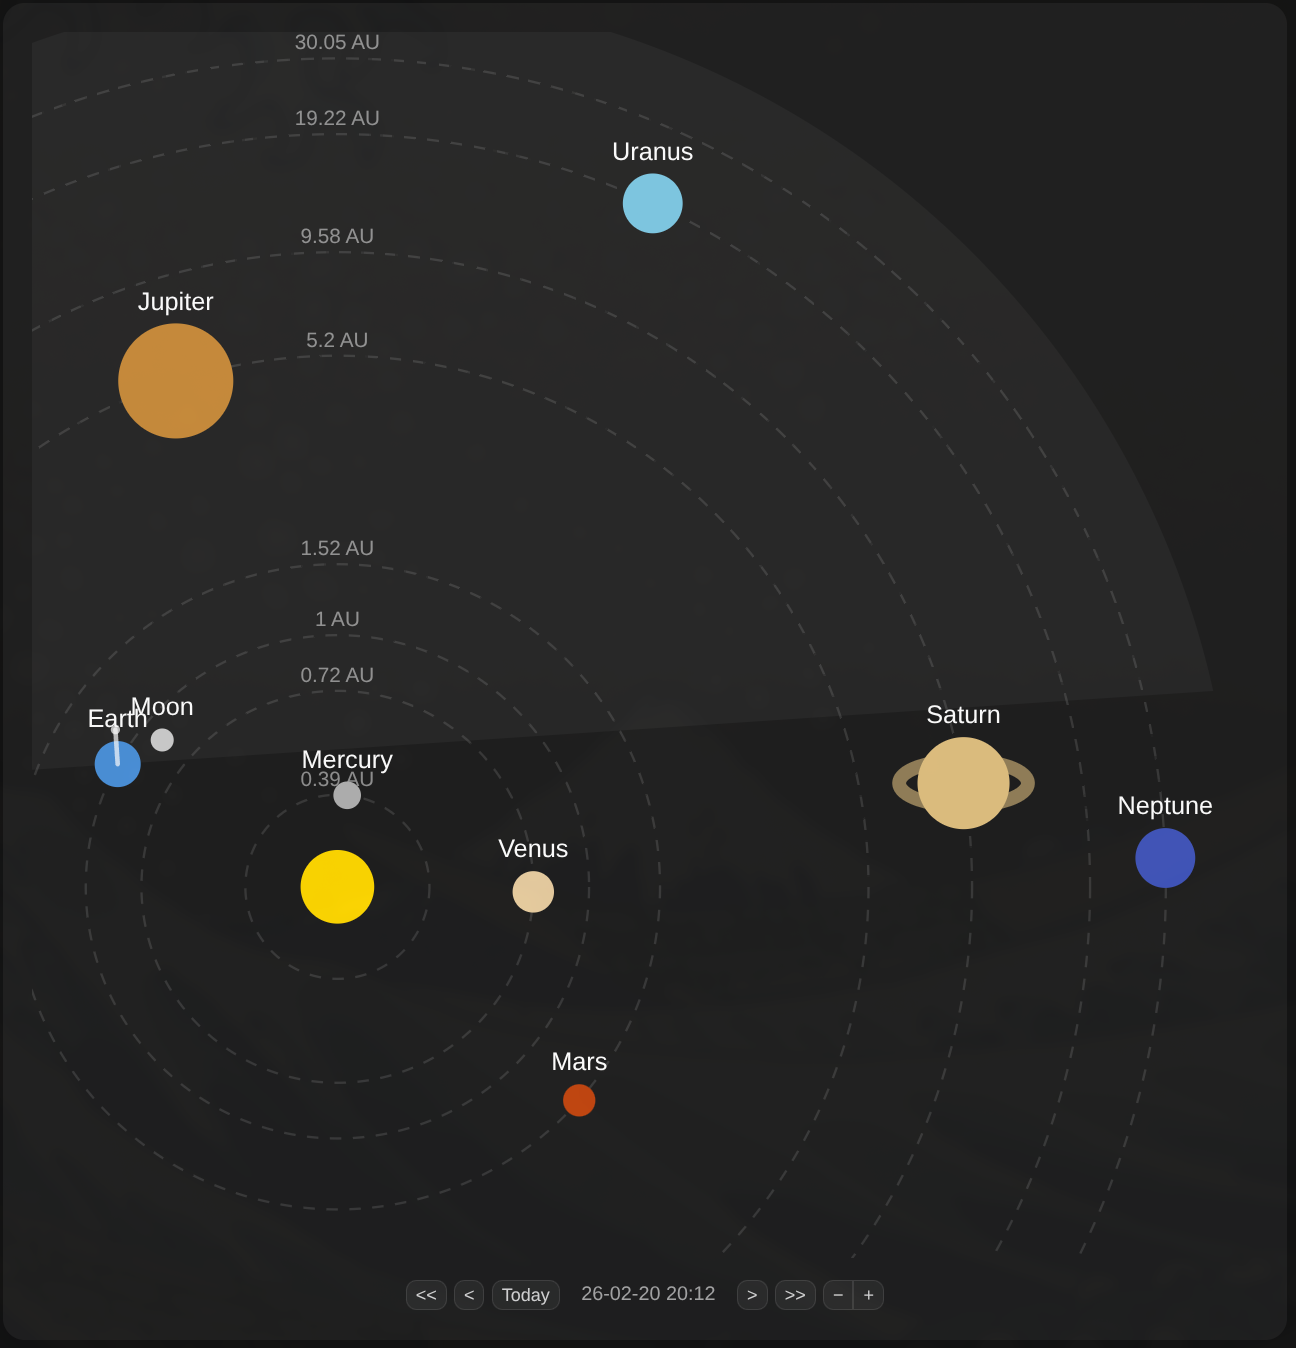
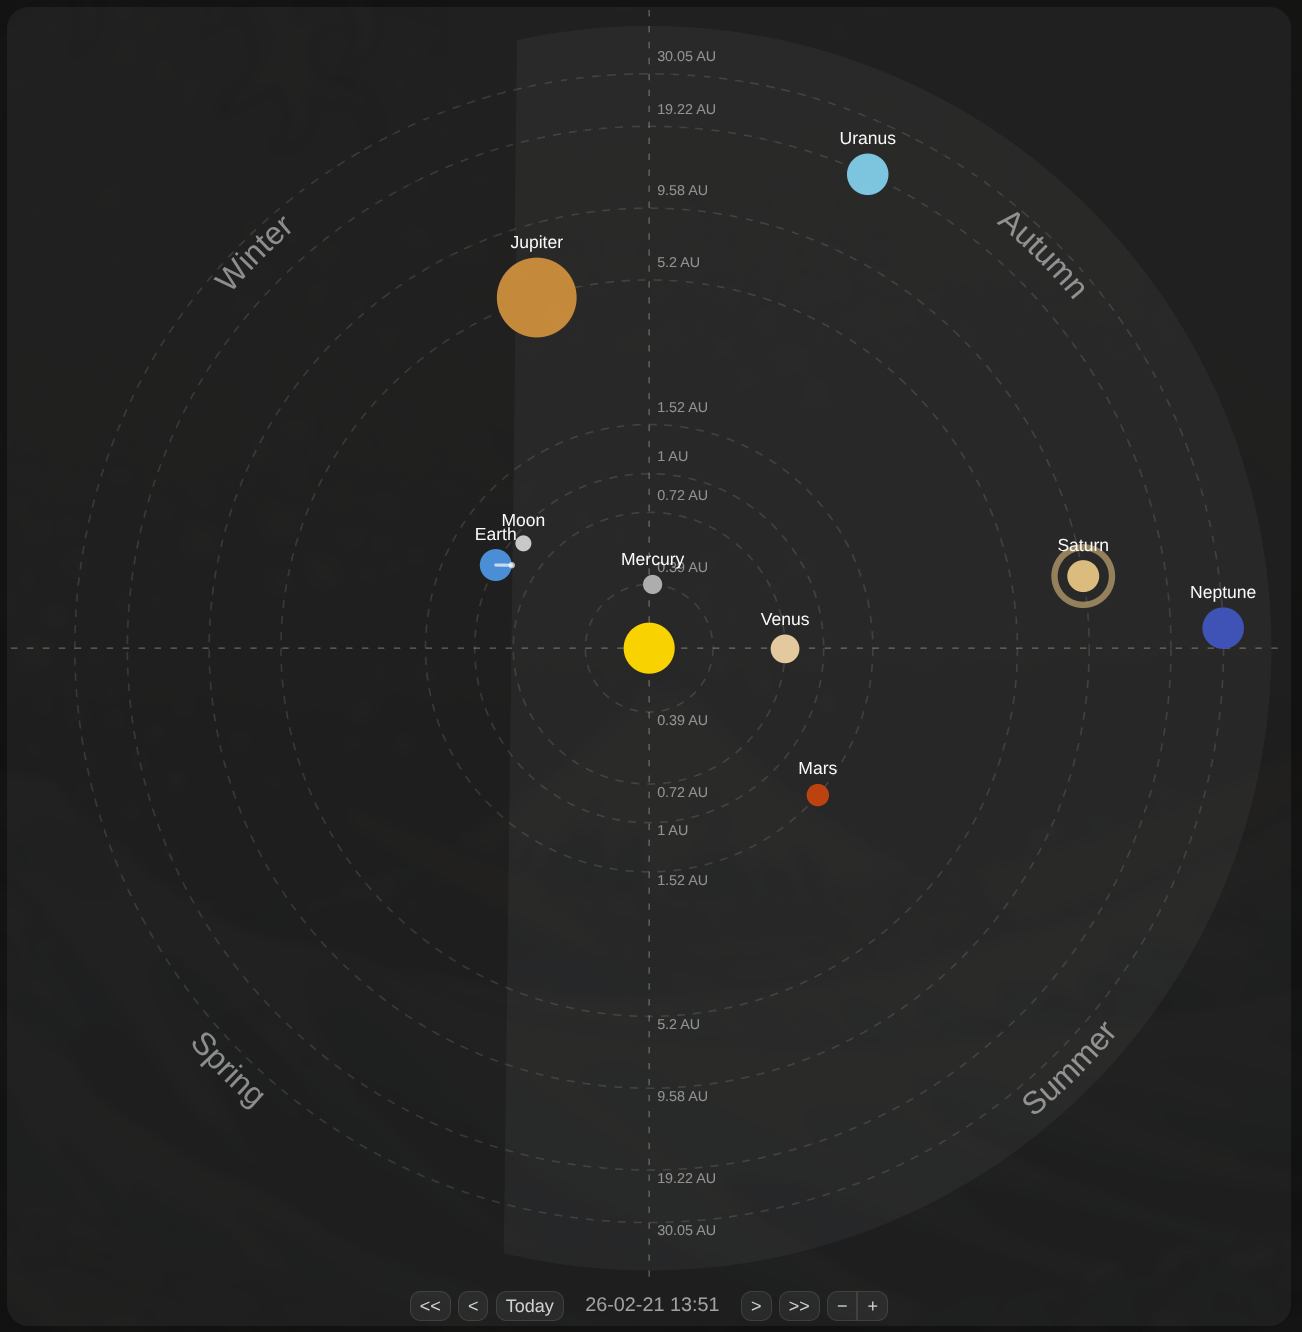
visual fixes

diff --git a/dist/ha-solar-view-card.js b/dist/ha-solar-view-card.js
@@ -160,18 +160,20 @@ function renderOrbit(svg, radius, auLabel) {
   );
 
   // AU labels on the vertical axis — mirrored above and below center
+  // Offset right of the season dividing line to avoid overlap
   const offset = 8;
+  const horizontalOffset = 5;
   const labelAttrs = {
     fill: LABEL_COLOR,
     "font-size": "9",
     "font-family": "sans-serif",
-    "text-anchor": "middle",
+    "text-anchor": "start",
   };
 
   // Top label
   svg.appendChild(
     createSvgElement("text", {
-      x: CENTER,
+      x: CENTER + horizontalOffset,
       y: CENTER - radius - offset,
       ...labelAttrs,
     })
@@ -180,7 +182,7 @@ function renderOrbit(svg, radius, auLabel) {
   // Bottom label
   svg.appendChild(
     createSvgElement("text", {
-      x: CENTER,
+      x: CENTER + horizontalOffset,
       y: CENTER + radius + offset,
       ...labelAttrs,
     })
@@ -380,20 +382,24 @@ function renderSeasonOverlay(svg, hemisphere) {
     const startRad = (season.startAngle * Math.PI) / 180;
     const endRad = (season.endAngle * Math.PI) / 180;
 
-    const x1 = CENTER + labelRadius * Math.cos(startRad);
-    const y1 = CENTER - labelRadius * Math.sin(startRad);
-    const x2 = CENTER + labelRadius * Math.cos(endRad);
-    const y2 = CENTER - labelRadius * Math.sin(endRad);
-
     // Top-half arcs (0–90° and 90–180°) render text upside-down because the
     // default arc sweeps right-to-left in SVG space. Reverse them so textPath
     // flows left-to-right for readable labels.
     const isTopHalf = season.startAngle >= 0 && season.endAngle <= 180 && season.startAngle < 180;
+    // Use a smaller radius for top-half labels so they appear visually
+    // at the same distance from Neptune's orbit as bottom-half labels
+    const arcRadius = isTopHalf ? labelRadius - 36 : labelRadius;
+
+    const x1 = CENTER + arcRadius * Math.cos(startRad);
+    const y1 = CENTER - arcRadius * Math.sin(startRad);
+    const x2 = CENTER + arcRadius * Math.cos(endRad);
+    const y2 = CENTER - arcRadius * Math.sin(endRad);
+
     const arcPath = createSvgElement("path", {
       id: pathId,
       d: isTopHalf
-        ? `M ${x2} ${y2} A ${labelRadius} ${labelRadius} 0 0 1 ${x1} ${y1}`
-        : `M ${x1} ${y1} A ${labelRadius} ${labelRadius} 0 0 0 ${x2} ${y2}`,
+        ? `M ${x2} ${y2} A ${arcRadius} ${arcRadius} 0 0 1 ${x1} ${y1}`
+        : `M ${x1} ${y1} A ${arcRadius} ${arcRadius} 0 0 0 ${x2} ${y2}`,
       fill: "none",
     });
     defs.appendChild(arcPath);
@@ -465,9 +471,20 @@ function renderSolarSystem(date, hemisphere = "north") {
       // Shrink Saturn's body to make room for top-down circular ring
       const saturnRenderSize = Math.round(planet.size / 2);
       const saturnOverride = { ...planet, size: saturnRenderSize };
-      renderBody(svg, x, y, saturnOverride);
+      renderBody(svg, x, y, saturnOverride, false);
       expandBounds(bounds, x, y, saturnOverride.size + 17);
       renderSaturnRings(svg, x, y, planet);
+      // Draw label after rings so it paints on top
+      svg.appendChild(
+        createSvgElement("text", {
+          x: x,
+          y: y - saturnRenderSize - 6,
+          fill: "#ffffff",
+          "font-size": "11",
+          "font-family": "sans-serif",
+          "text-anchor": "middle",
+        })
+      ).textContent = planet.name;
       // Total footprint: ring outer edge = ringRadius + strokeWidth/2 = (planet.size - 2) + 2 = planet.size
       expandBounds(bounds, x, y, planet.size);
     } else {
@@ -686,7 +703,7 @@ class SolarViewCard extends HTMLElement {
           justify-content: center;
           align-items: center;
           gap: 4px;
-          margin-top: 12px;
+          margin-top: 2px;
         }
         .nav button {
           background: #2a2a2a;

diff --git a/src/renderer.js b/src/renderer.js
@@ -50,18 +50,20 @@ function renderOrbit(svg, radius, auLabel) {
   );
 
   // AU labels on the vertical axis — mirrored above and below center
+  // Offset right of the season dividing line to avoid overlap
   const offset = 8;
+  const horizontalOffset = 5;
   const labelAttrs = {
     fill: LABEL_COLOR,
     "font-size": "9",
     "font-family": "sans-serif",
-    "text-anchor": "middle",
+    "text-anchor": "start",
   };
 
   // Top label
   svg.appendChild(
     createSvgElement("text", {
-      x: CENTER,
+      x: CENTER + horizontalOffset,
       y: CENTER - radius - offset,
       ...labelAttrs,
     })
@@ -70,7 +72,7 @@ function renderOrbit(svg, radius, auLabel) {
   // Bottom label
   svg.appendChild(
     createSvgElement("text", {
-      x: CENTER,
+      x: CENTER + horizontalOffset,
       y: CENTER + radius + offset,
       ...labelAttrs,
     })
@@ -270,20 +272,24 @@ function renderSeasonOverlay(svg, hemisphere) {
     const startRad = (season.startAngle * Math.PI) / 180;
     const endRad = (season.endAngle * Math.PI) / 180;
 
-    const x1 = CENTER + labelRadius * Math.cos(startRad);
-    const y1 = CENTER - labelRadius * Math.sin(startRad);
-    const x2 = CENTER + labelRadius * Math.cos(endRad);
-    const y2 = CENTER - labelRadius * Math.sin(endRad);
-
     // Top-half arcs (0–90° and 90–180°) render text upside-down because the
     // default arc sweeps right-to-left in SVG space. Reverse them so textPath
     // flows left-to-right for readable labels.
     const isTopHalf = season.startAngle >= 0 && season.endAngle <= 180 && season.startAngle < 180;
+    // Use a smaller radius for top-half labels so they appear visually
+    // at the same distance from Neptune's orbit as bottom-half labels
+    const arcRadius = isTopHalf ? labelRadius - 36 : labelRadius;
+
+    const x1 = CENTER + arcRadius * Math.cos(startRad);
+    const y1 = CENTER - arcRadius * Math.sin(startRad);
+    const x2 = CENTER + arcRadius * Math.cos(endRad);
+    const y2 = CENTER - arcRadius * Math.sin(endRad);
+
     const arcPath = createSvgElement("path", {
       id: pathId,
       d: isTopHalf
-        ? `M ${x2} ${y2} A ${labelRadius} ${labelRadius} 0 0 1 ${x1} ${y1}`
-        : `M ${x1} ${y1} A ${labelRadius} ${labelRadius} 0 0 0 ${x2} ${y2}`,
+        ? `M ${x2} ${y2} A ${arcRadius} ${arcRadius} 0 0 1 ${x1} ${y1}`
+        : `M ${x1} ${y1} A ${arcRadius} ${arcRadius} 0 0 0 ${x2} ${y2}`,
       fill: "none",
     });
     defs.appendChild(arcPath);
@@ -355,9 +361,20 @@ export function renderSolarSystem(date, hemisphere = "north") {
       // Shrink Saturn's body to make room for top-down circular ring
       const saturnRenderSize = Math.round(planet.size / 2);
       const saturnOverride = { ...planet, size: saturnRenderSize };
-      renderBody(svg, x, y, saturnOverride);
+      renderBody(svg, x, y, saturnOverride, false);
       expandBounds(bounds, x, y, saturnOverride.size + 17);
       renderSaturnRings(svg, x, y, planet, saturnRenderSize);
+      // Draw label after rings so it paints on top
+      svg.appendChild(
+        createSvgElement("text", {
+          x: x,
+          y: y - saturnRenderSize - 6,
+          fill: "#ffffff",
+          "font-size": "11",
+          "font-family": "sans-serif",
+          "text-anchor": "middle",
+        })
+      ).textContent = planet.name;
       // Total footprint: ring outer edge = ringRadius + strokeWidth/2 = (planet.size - 2) + 2 = planet.size
       expandBounds(bounds, x, y, planet.size);
     } else {

diff --git a/test/renderer.test.js b/test/renderer.test.js
@@ -66,10 +66,10 @@ describe("renderSolarSystem", () => {
     // 8 planets × 2 labels (top + bottom) = 16 AU labels
     expect(auLabels.length).toBe(16);
 
-    // All labels should be centered on x=400 (vertical axis)
+    // All labels should be offset right of x=400 (vertical season line)
     for (const label of auLabels) {
-      expect(label.getAttribute("x")).toBe("400");
-      expect(label.getAttribute("text-anchor")).toBe("middle");
+      expect(Number(label.getAttribute("x"))).toBeGreaterThan(400);
+      expect(label.getAttribute("text-anchor")).toBe("start");
       // No rotation transform should be applied
       expect(label.getAttribute("transform")).toBeNull();
     }
@@ -186,6 +186,29 @@ describe("renderSolarSystem", () => {
     const saturnBody = svg.querySelector('circle[fill="#e0c080"]');
     expect(saturnBody).not.toBeNull();
     expect(saturnBody.getAttribute("r")).toBe("10");
+  });
+
+  it("Saturn label renders above (after) rings in SVG DOM order", () => {
+    const container = document.createElement("div");
+    renderInto(container, new Date("2026-02-14"));
+
+    const svg = container.querySelector("svg");
+    const allElements = Array.from(svg.children);
+
+    // Find Saturn's ring circle (non-orbit, non-dash stroke circle)
+    const ring = svg.querySelector('circle[fill="none"]:not([stroke-dasharray])');
+    expect(ring).not.toBeNull();
+
+    // Find Saturn's label text
+    const saturnLabel = allElements.find(
+      (el) => el.tagName === "text" && el.textContent === "Saturn"
+    );
+    expect(saturnLabel).not.toBeNull();
+
+    // Label must come after ring in DOM order
+    const ringIdx = allElements.indexOf(ring);
+    const labelIdx = allElements.indexOf(saturnLabel);
+    expect(labelIdx).toBeGreaterThan(ringIdx);
   });
 
   it("Saturn ring is centered on Saturn body", () => {
@@ -351,6 +374,29 @@ describe("season overlay", () => {
     for (const arc of bottomArcs) {
       expect(arc.getAttribute("d")).toMatch(/A \d+ \d+ 0 0 0/);
     }
+  });
+
+  it("top-half season label arcs use a smaller radius than bottom-half arcs", () => {
+    const container = document.createElement("div");
+    renderInto(container, new Date("2026-02-14"));
+
+    const svg = container.querySelector("svg");
+    const defs = svg.querySelector("defs");
+
+    // Top-half arcs: 0=Winter(90-180°), 1=Autumn(0-90°)
+    // Bottom-half arcs: 2=Summer(270-360°), 3=Spring(180-270°)
+    const topArc = defs.querySelector("#season-arc-0");
+    const bottomArc = defs.querySelector("#season-arc-2");
+
+    // Extract radius from arc path "A <rx> <ry> ..."
+    const extractRadius = (path) => {
+      const match = path.getAttribute("d").match(/A ([\d.]+) ([\d.]+)/);
+      return Number(match[1]);
+    };
+
+    const topRadius = extractRadius(topArc);
+    const bottomRadius = extractRadius(bottomArc);
+    expect(topRadius).toBeLessThan(bottomRadius);
   });
 
   it("season dividing lines are rendered before orbits (behind them)", () => {

diff --git a/test/solar-view-card.test.js b/test/solar-view-card.test.js
@@ -180,6 +180,15 @@ describe("SolarViewCard", () => {
       card.remove();
     });
 
+    it("nav has minimal margin-top (2px or less)", () => {
+      const card = createAndMount();
+      const styleEl = card.shadowRoot.querySelector("style");
+      const match = styleEl.textContent.match(/\.nav\s*\{[^}]*margin-top:\s*(\d+)px/);
+      expect(match).not.toBeNull();
+      expect(Number(match[1])).toBeLessThanOrEqual(2);
+      card.remove();
+    });
+
     it("overflow wrapper exists and style declares overflow hidden", () => {
       const card = createAndMount();
       const wrapper = card.shadowRoot.querySelector(".solar-view-wrapper");

diff --git a/src/solar-view-card.js b/src/solar-view-card.js
@@ -189,7 +189,7 @@ export class SolarViewCard extends HTMLElement {
           justify-content: center;
           align-items: center;
           gap: 4px;
-          margin-top: 12px;
+          margin-top: 2px;
         }
         .nav button {
           background: #2a2a2a;
